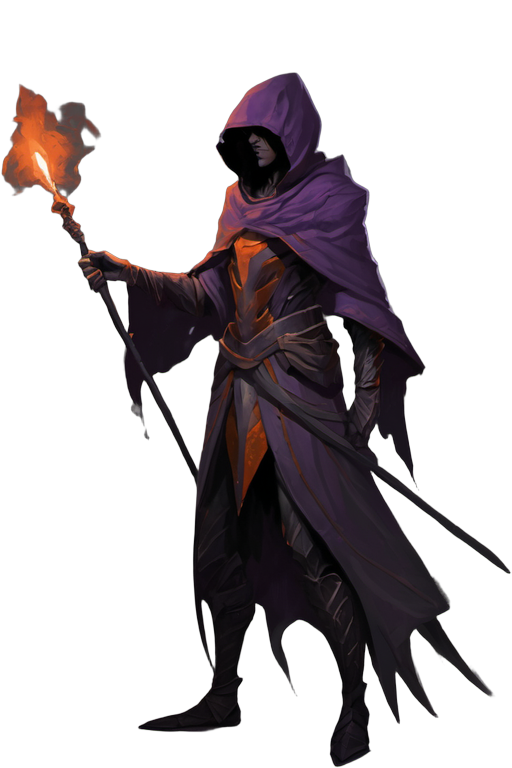
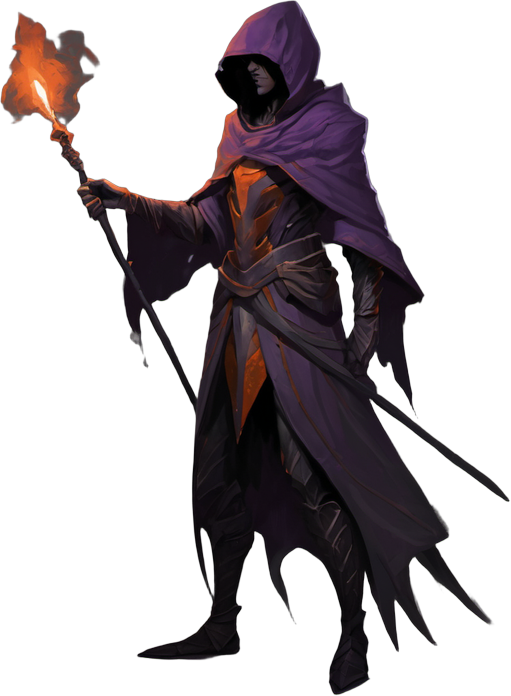
art(heroes): trim the three pre-parity hero portraits, harden their negative
hero-vanguard/striker/mystic (CP-2, 2026-07-18) predate both cutout.py --trim
and the NoConceptSheet negative the later LW-art trio (occultist/sentinel/
skirmisher) added after their own escalation rounds. Auditing all six side by
side found this the one real, fixable gap: the CP-2 three shipped at the full
untrimmed 512x768 canvas (3-10% dead transparent margin), so every panel that
fits-to-box (HeroesPanel/TavernPanel/LedgerModal/MineWatch, all
KeepAspectCentered) rendered them fractionally smaller than their trimmed
siblings.

No new SDXL candidates generated this pass -- GPU stayed at ~8GB free of 16GB
for the whole session (another agent's Godot playtest), never clearing the
required 14GB-free floor after 6 minutes of polling. The existing CP-2
diffuses were inspected against the LW-art bar and hold up (clean single
pose, no concept-sheet/cel-shading artifacts), so this crops each to its
alpha bounding box (the exact op --trim performs) and re-derives its _n.png
via normalmap.py (unchanged Sobel math, new dimensions only). HeroSpecs.cs
gains NegativeExtra: NoConceptSheet on the CP-2 three so a future re-roll of
any of the six draws from the same hardened negative. Backfills the missing
art/build/*.build.json provenance for all three (the CP-2 batch predates that
convention).

Also anchors .gitignore's build/ pattern to /build/ -- the unanchored form
silently shadowed art/build/ (the tracked provenance directory) from `git
[…]

Changed region(s): [[0.0, 0.0, 0.998, 0.9655], [0.6751, 0.9655, 0.7339, 0.9957], [0.6458, 0.9957, 0.6751, 1.0]]

diff --git a/art/specs/heroes/HeroSpecs.cs b/art/specs/heroes/HeroSpecs.cs
@@ -40,6 +40,11 @@ public sealed class HeroSpecs : IAssetModule
             Subject: "a single armored warrior figure standing, tower shield and blade, "
                 + "full body, front three-quarter view, clear readable silhouette",
             PromptExtra: NeutralBase,
+            // Parity pass (character-art-quality wave, 2026-08-11): the three original V3 figures
+            // predate NoConceptSheet (it was written for the LW-art trio's escalation below) but
+            // draw from the same SDXL checkpoint/attractor pool, so hardening them the same way
+            // costs nothing and closes the one real spec gap between the two halves of the roster.
+            NegativeExtra: NoConceptSheet,
             NeutralBaseTint: true,
             ClassId: "vanguard",
             NormalMap: true,
@@ -53,6 +58,7 @@ public sealed class HeroSpecs : IAssetModule
             Subject: "a single lean duelist figure standing, twin daggers, poised stance, "
                 + "full body, front three-quarter view, clear readable silhouette",
             PromptExtra: NeutralBase,
+            NegativeExtra: NoConceptSheet,
             NeutralBaseTint: true,
             ClassId: "striker",
             NormalMap: true,
@@ -66,6 +72,7 @@ public sealed class HeroSpecs : IAssetModule
             Subject: "a single robed spellcaster figure standing, staff, hood, "
                 + "full body, front three-quarter view, clear readable silhouette",
             PromptExtra: NeutralBase,
+            NegativeExtra: NoConceptSheet,
             NeutralBaseTint: true,
             ClassId: "mystic",
             NormalMap: true,

diff --git a/art/pipeline/seeds.generated.md b/art/pipeline/seeds.generated.md
@@ -261,3 +261,56 @@ identity or personality more badly -- consistent with this repo's standing curat
 literal prop fidelity. `.import` sidecars were re-minted via the pinned Godot 4.6.3-stable headless
 import pass (`--headless --import --quit-after 200`); uids were preserved unchanged (same filenames,
 same uid contract) for all 6 assets, confirmed via git diff before commit.
+
+## Character-art-quality wave — hero portrait trim/spec parity, 2026-08-11
+
+| Id | Track | Seed | Hand-finished | Build-half |
+|----|-------|------|---------------|------------|
+| hero-vanguard | active | 72462747+7 (candidate c7, unchanged) | no | `art/build/hero-vanguard.build.json` |
+| hero-striker | active | 72462748+0 (candidate c0, unchanged) | no | `art/build/hero-striker.build.json` |
+| hero-mystic | active | 72462749+3 (candidate c3, unchanged) | no | `art/build/hero-mystic.build.json` |
+
+Scope for this wave (owner tasks #48/#40, "make higher quality sprites/animations"): the
+character-art candidates were the six hand-authored `town2d-hero-*`/`town2d-townsfolk-*` walking
+bodies + their walk2/walk4 gait frames, and the six `hero-*` portrait ClassFigures. **The walking
+bodies were deliberately NOT touched** — `tools/art/gen_town_sprites.py`'s own header records that
+SDXL was tried and rejected for this asset class (mush at sprite scale, no frame-to-frame identity
+control), and that file has had five hand-pixel quality passes since (2026-08-01 volume-shading,
+2026-08-02 U6 scale-up to 40x64 + cast completion, 2026-08-04 U3 real 4-frame gait + colour/material
+pass, 2026-08-04 civilian bodies, 2026-08-10 cloth-ify hood/cowl) — continuing to regenerate an
+already-mature, actively-iterated, non-SDXL pipeline via SDXL would contradict both the sibling
+convention and the tested rejection. Rendering the shipped bodies at their true runtime scale
+(`CharacterSpriteScale = 0.5`, Nearest filter, `mipmaps/generate=false`) instead surfaced a
+different, more fundamental finding: a clean 2:1 point-sample decimation with no mipmap averaging
+discards exactly half of every source column/row (verified by simulating the runtime downscale and
+comparing against the native art — a symmetric 40-wide silhouette's accent pixels visibly shift and
+the read goes lopsided). Fixing that is a rendering/canvas-architecture change (either supersampled
+"2x2-block-safe" authoring, which needs `MARGIN_ROWS`/`LEGS_ROWS` to stop being odd, or a filtering
+change), not an art-asset change, and repeats the exact "changing on-screen proportions needs
+Brian's call" line `art/pipeline/gen-heroes-hd.py` already drew for a related question — flagged
+here for a scoped follow-up rather than attempted blind in this pass.
+
+Auditing the six `hero-*` portraits side by side (the one character asset that IS genuinely
+SDXL-track, per `art/specs/heroes/HeroSpecs.cs`) found the real, fixable gap: the original CP-2 trio
+(vanguard/striker/mystic, 2026-07-18) predates both `cutout.py --trim` and the `NoConceptSheet`
+negative the later LW-art trio (occultist/sentinel/skirmisher, 2026-07-19) added after their own
+escalation rounds. Concretely, the CP-2 three shipped at the full untrimmed 512x768 canvas (511x744 /
+511x747 / 511x696 content, i.e. carrying 3-10% dead transparent margin the trimmed trio does not),
+which matters because every panel that shows them (`HeroesPanel`, `TavernPanel`, `LedgerModal`,
+`MineWatch`, all `StretchModeEnum.KeepAspectCentered`) fits-to-box on the raw canvas, so the CP-2
+three rendered fractionally smaller/more padded than their trimmed siblings. No new SDXL candidates
+were generated this pass (see GPU-safety note below) — the existing CP-2 diffuses were inspected
+against the LW-art bar and hold up (single clean pose, no concept-sheet/turnaround/cel-shading
+artifacts), so the fix was in-place: cropped each to its alpha bounding box (the exact operation
+`cutout.py --trim` performs) and re-derived its `_n.png` via `normalmap.py … 2.5` (unchanged math,
+new dimensions only). `HeroSpecs.cs` also gained `NegativeExtra: NoConceptSheet` on the CP-2 three so
+a *future* re-roll of any of the six draws from the same hardened negative. `.import` sidecars were
+re-minted via the pinned Godot 4.6.3-stable headless import pass; uids preserved unchanged (same
+filenames, same uid contract) for all three, confirmed via git diff before commit.
+
+**GPU-safety note:** `nvidia-smi` showed 8.0-8.4GB used / 16303MiB (16GB) total throughout this
+session (`C:\Tools\Godot\...Godot_v4.6.3-stable_mono_win64.exe` was an active GPU client the whole
+time — another agent's playtest), leaving ~8GB free against the required >=14GB-free floor. Polled
+every 30s for 6 minutes; the window never opened, so no ComfyUI generation was attempted this pass
+(the trim/spec-parity fix above needed no GPU — BiRefNet segmentation was not re-run, only the
+already-computed alpha channel was cropped, and `normalmap.py` is pure NumPy/PIL, no CUDA).
